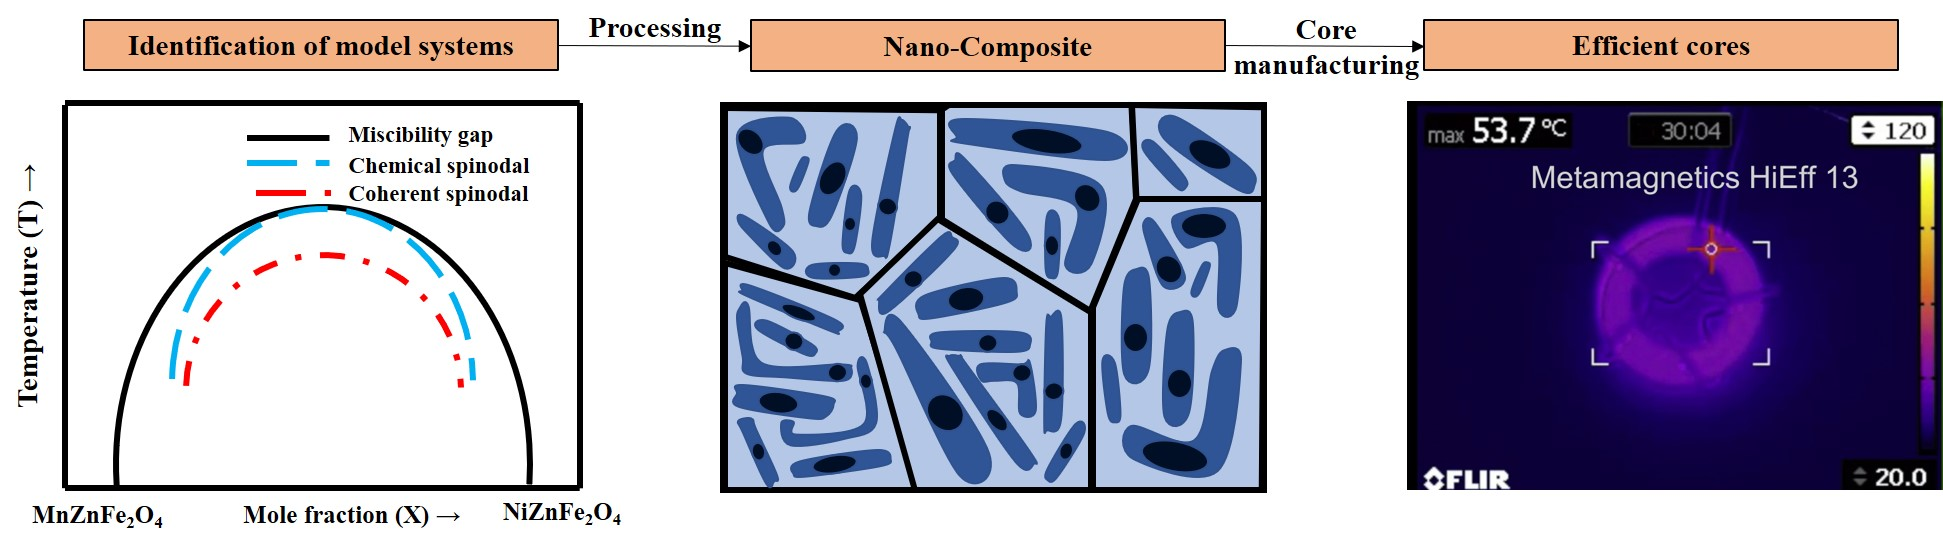
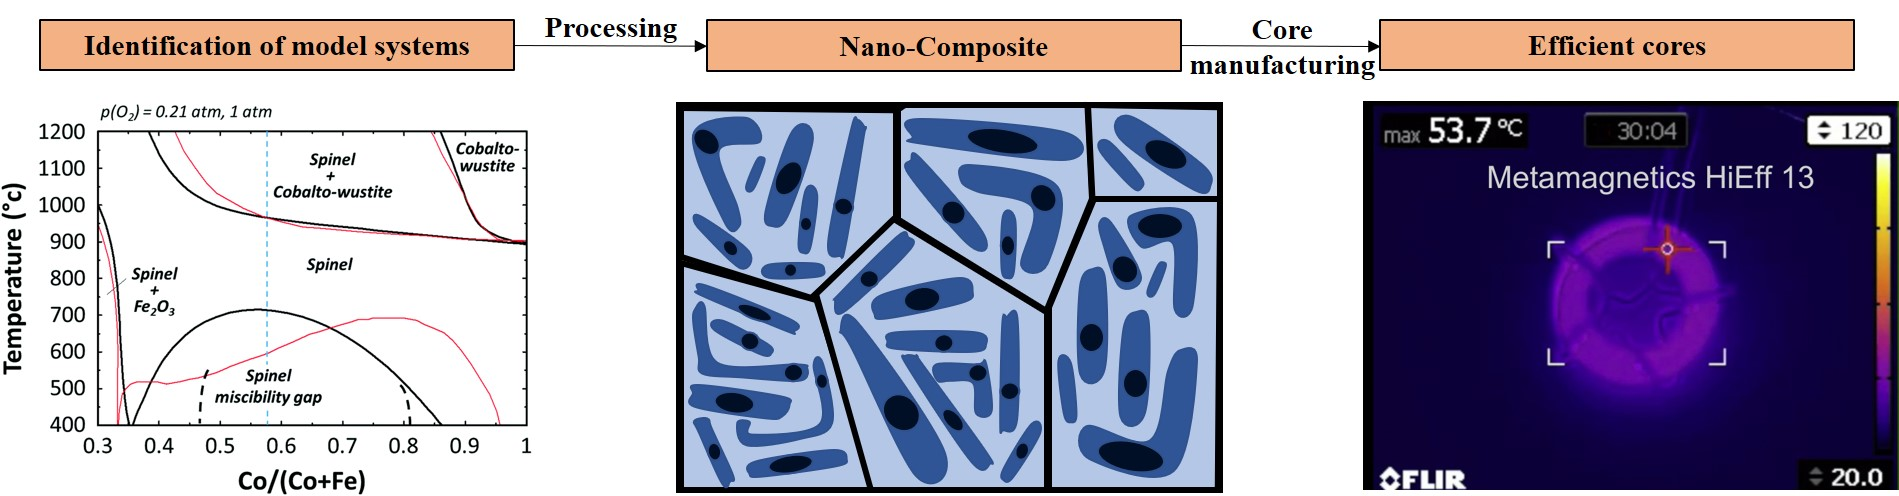
update

diff --git a/index.html b/index.html
@@ -150,7 +150,7 @@
 									<ul class="divided">
 										<li>
 											<article class="tweet">
-												Prof. Ohodnicki deliverd a seminar for the Pittsburgh Quantum Institute (PQI) seminar series about his research on fiber optic sensors for 
+												Prof. Ohodnicki delivered a seminar for the Pittsburgh Quantum Institute (PQI) seminar series about his research on fiber optic sensors for 
 												energy transport and storage applications and passive wireless sensing.<br> 
 												<span class="timestamp">Sept. 24, 2020</span>
 											</article>
@@ -179,7 +179,8 @@
 									<ul class="divided">
 										<li>
 											<iframe width="500" height="350" src="https://www.youtube.com/embed/vZIihcFifKY" allowfullscreen ng-show="showvideo"></iframe>
-											<article class="tweet">Prof. Ohodnicki at the PQI seminar on fiber optics sensors.</article>
+											<article class="tweet">Prof. Ohodnicki at the PQI seminar on emerging applications and materials for fiber optics and passive wireless sensors.
+											</article>
 
 										</li>
 									</ul>

diff --git a/magnetics.html b/magnetics.html
@@ -92,7 +92,7 @@
 										</p>
 
 										<a class="image fit"><img src="images/Ferrites01.jpg" alt="" style="margin-top: 2em; margin-bottom: : 2em;"/></a>
-										<span style = "font-size: 0.7em; font-style: italic; color: grey">Source: Parisa Andalib, Vincent G. Harris, Grain boundary engineering of power inductor cores for MHz applications, Journal of Alloys and Compounds, Volume 832, 2020, 153131.</span>
+										<span style = "font-size: 0.7em; font-style: italic; color: grey">Source: Left: T. M. C. Dinh, A. Barnabé, M. A. Bui, C. Josse, T. Hungria, C. Bonningue, L. Presmanes and  P. Tailhades, "FIB plan view lift-out sample preparation for TEM characterization of periodic nanostructures obtained by spinodal decomposition in Co1.7Fe1.3O4 thin films," CrystEngComm, 2018,20, 6146-6155. Right: Parisa Andalib, Vincent G. Harris, "Grain boundary engineering of power inductor cores for MHz applications," Journal of Alloys and Compounds, Volume 832, 2020, 153131.</span>
 										<br>
 										<br>										
 										<p>
